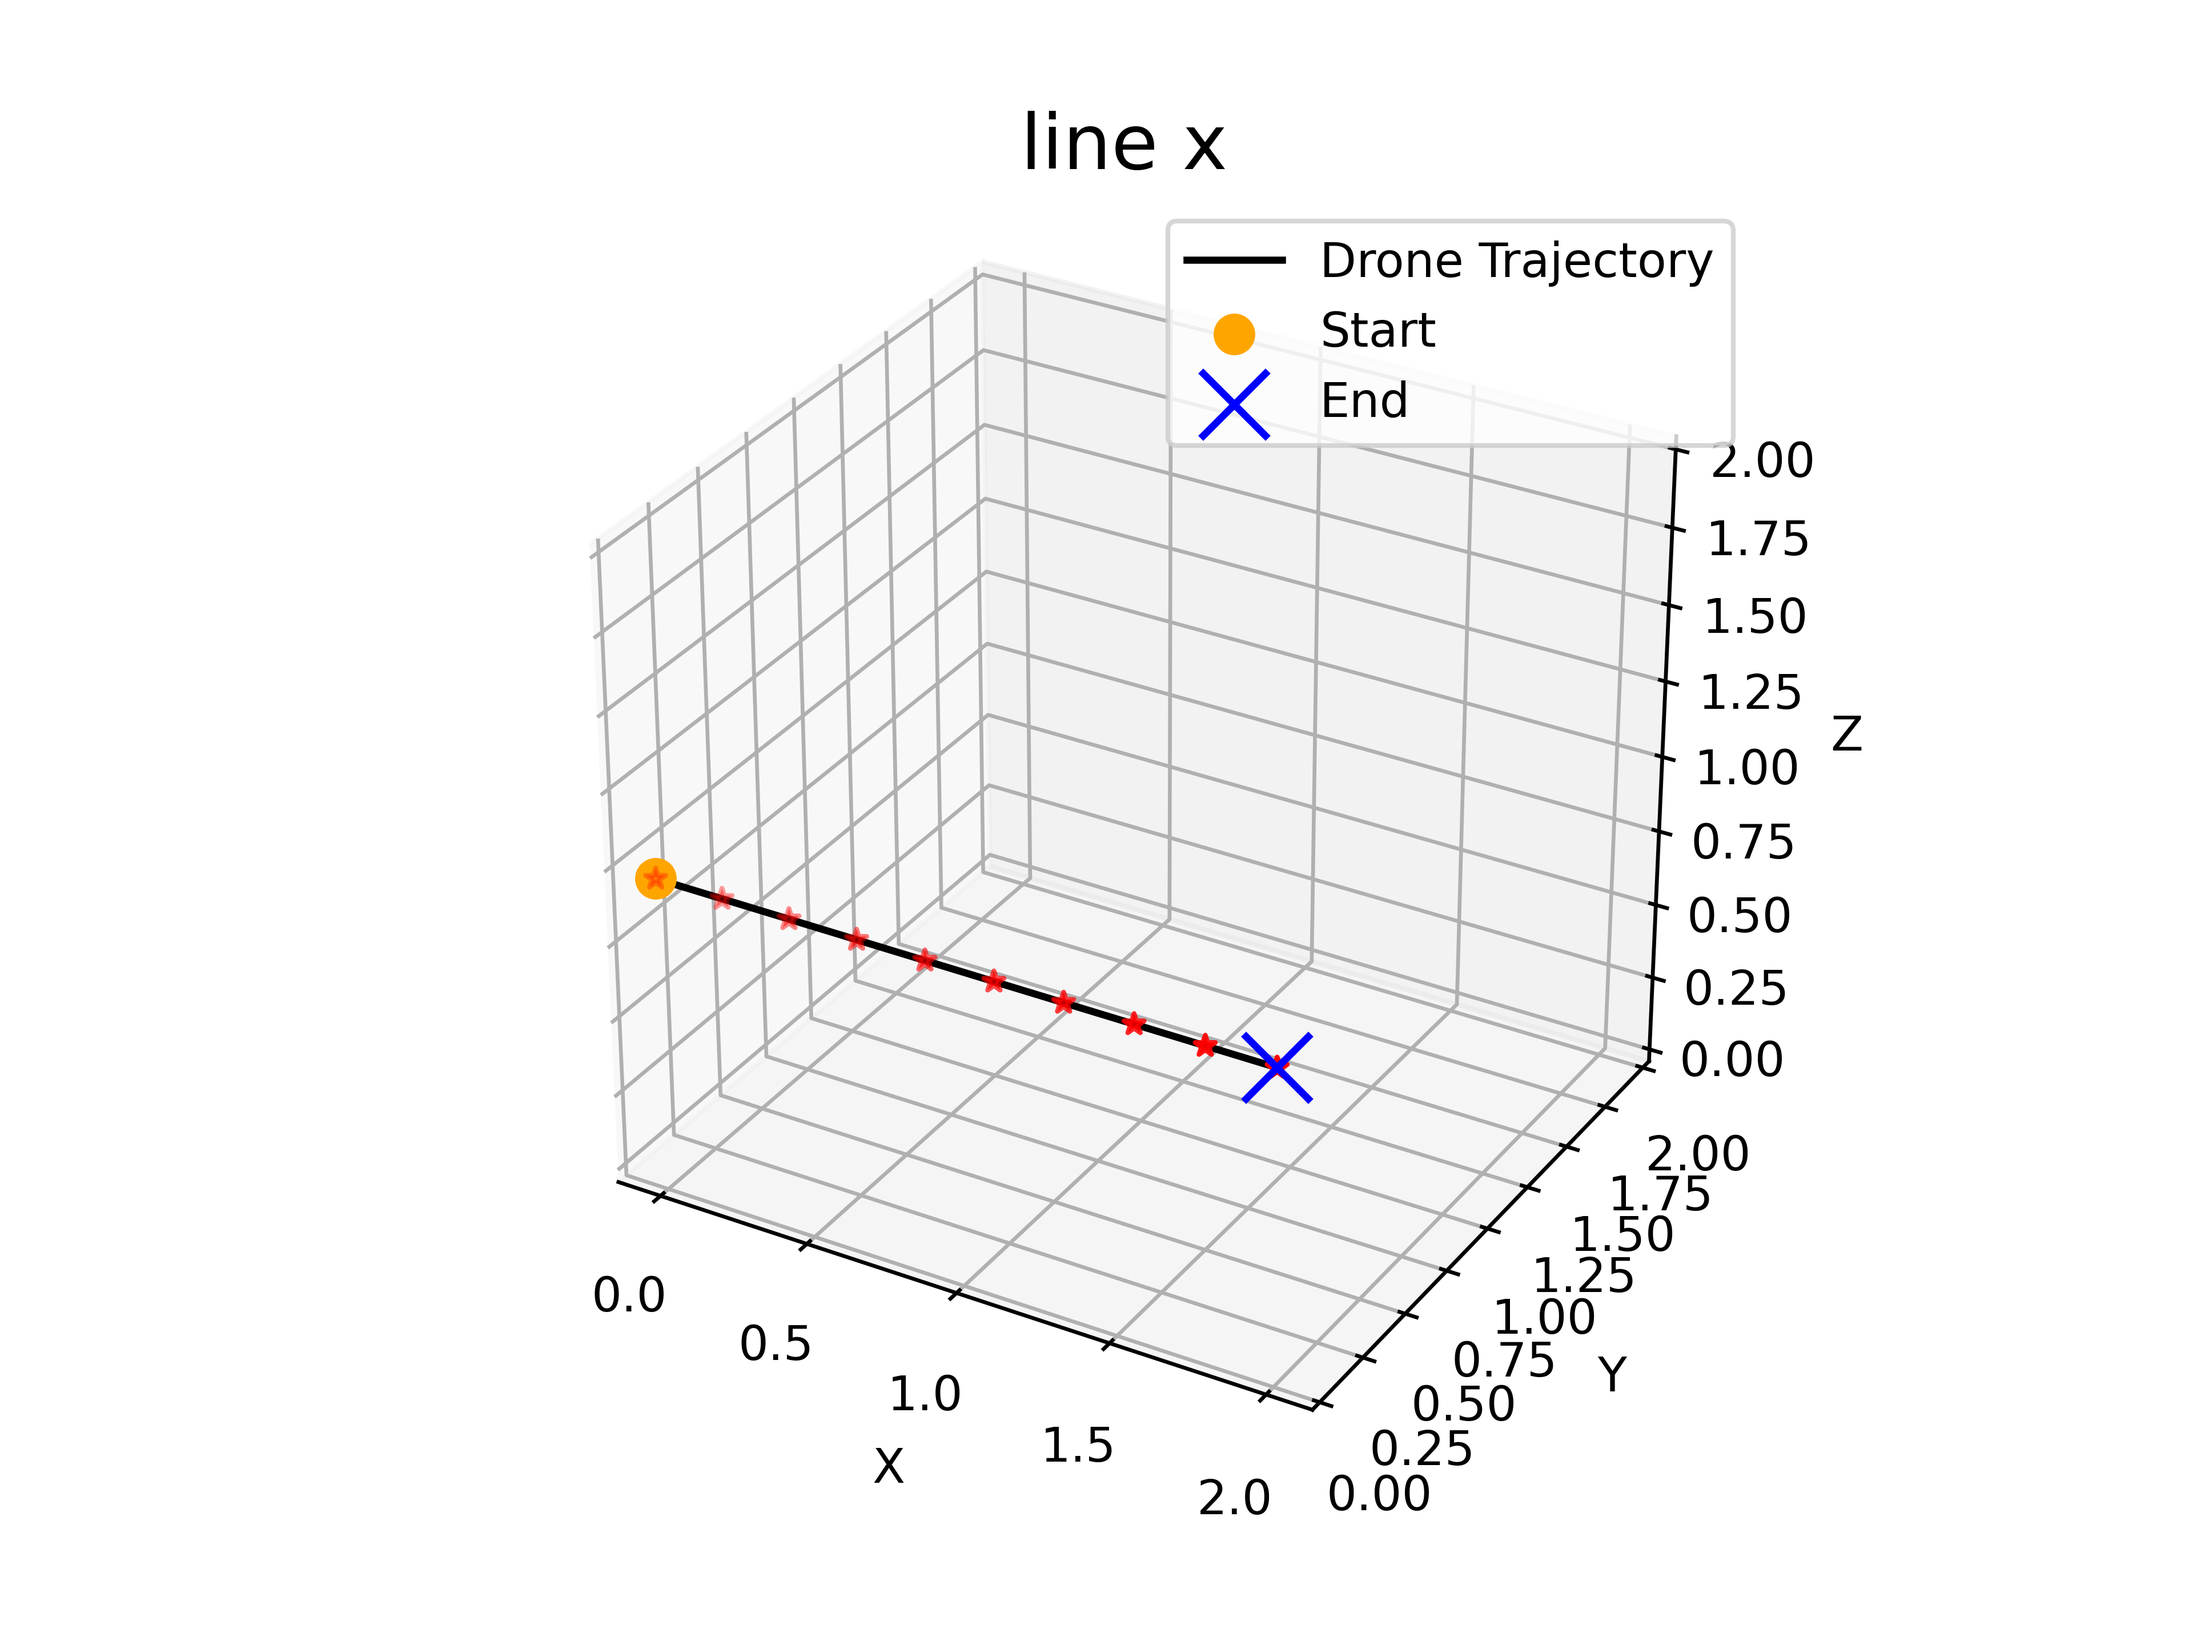
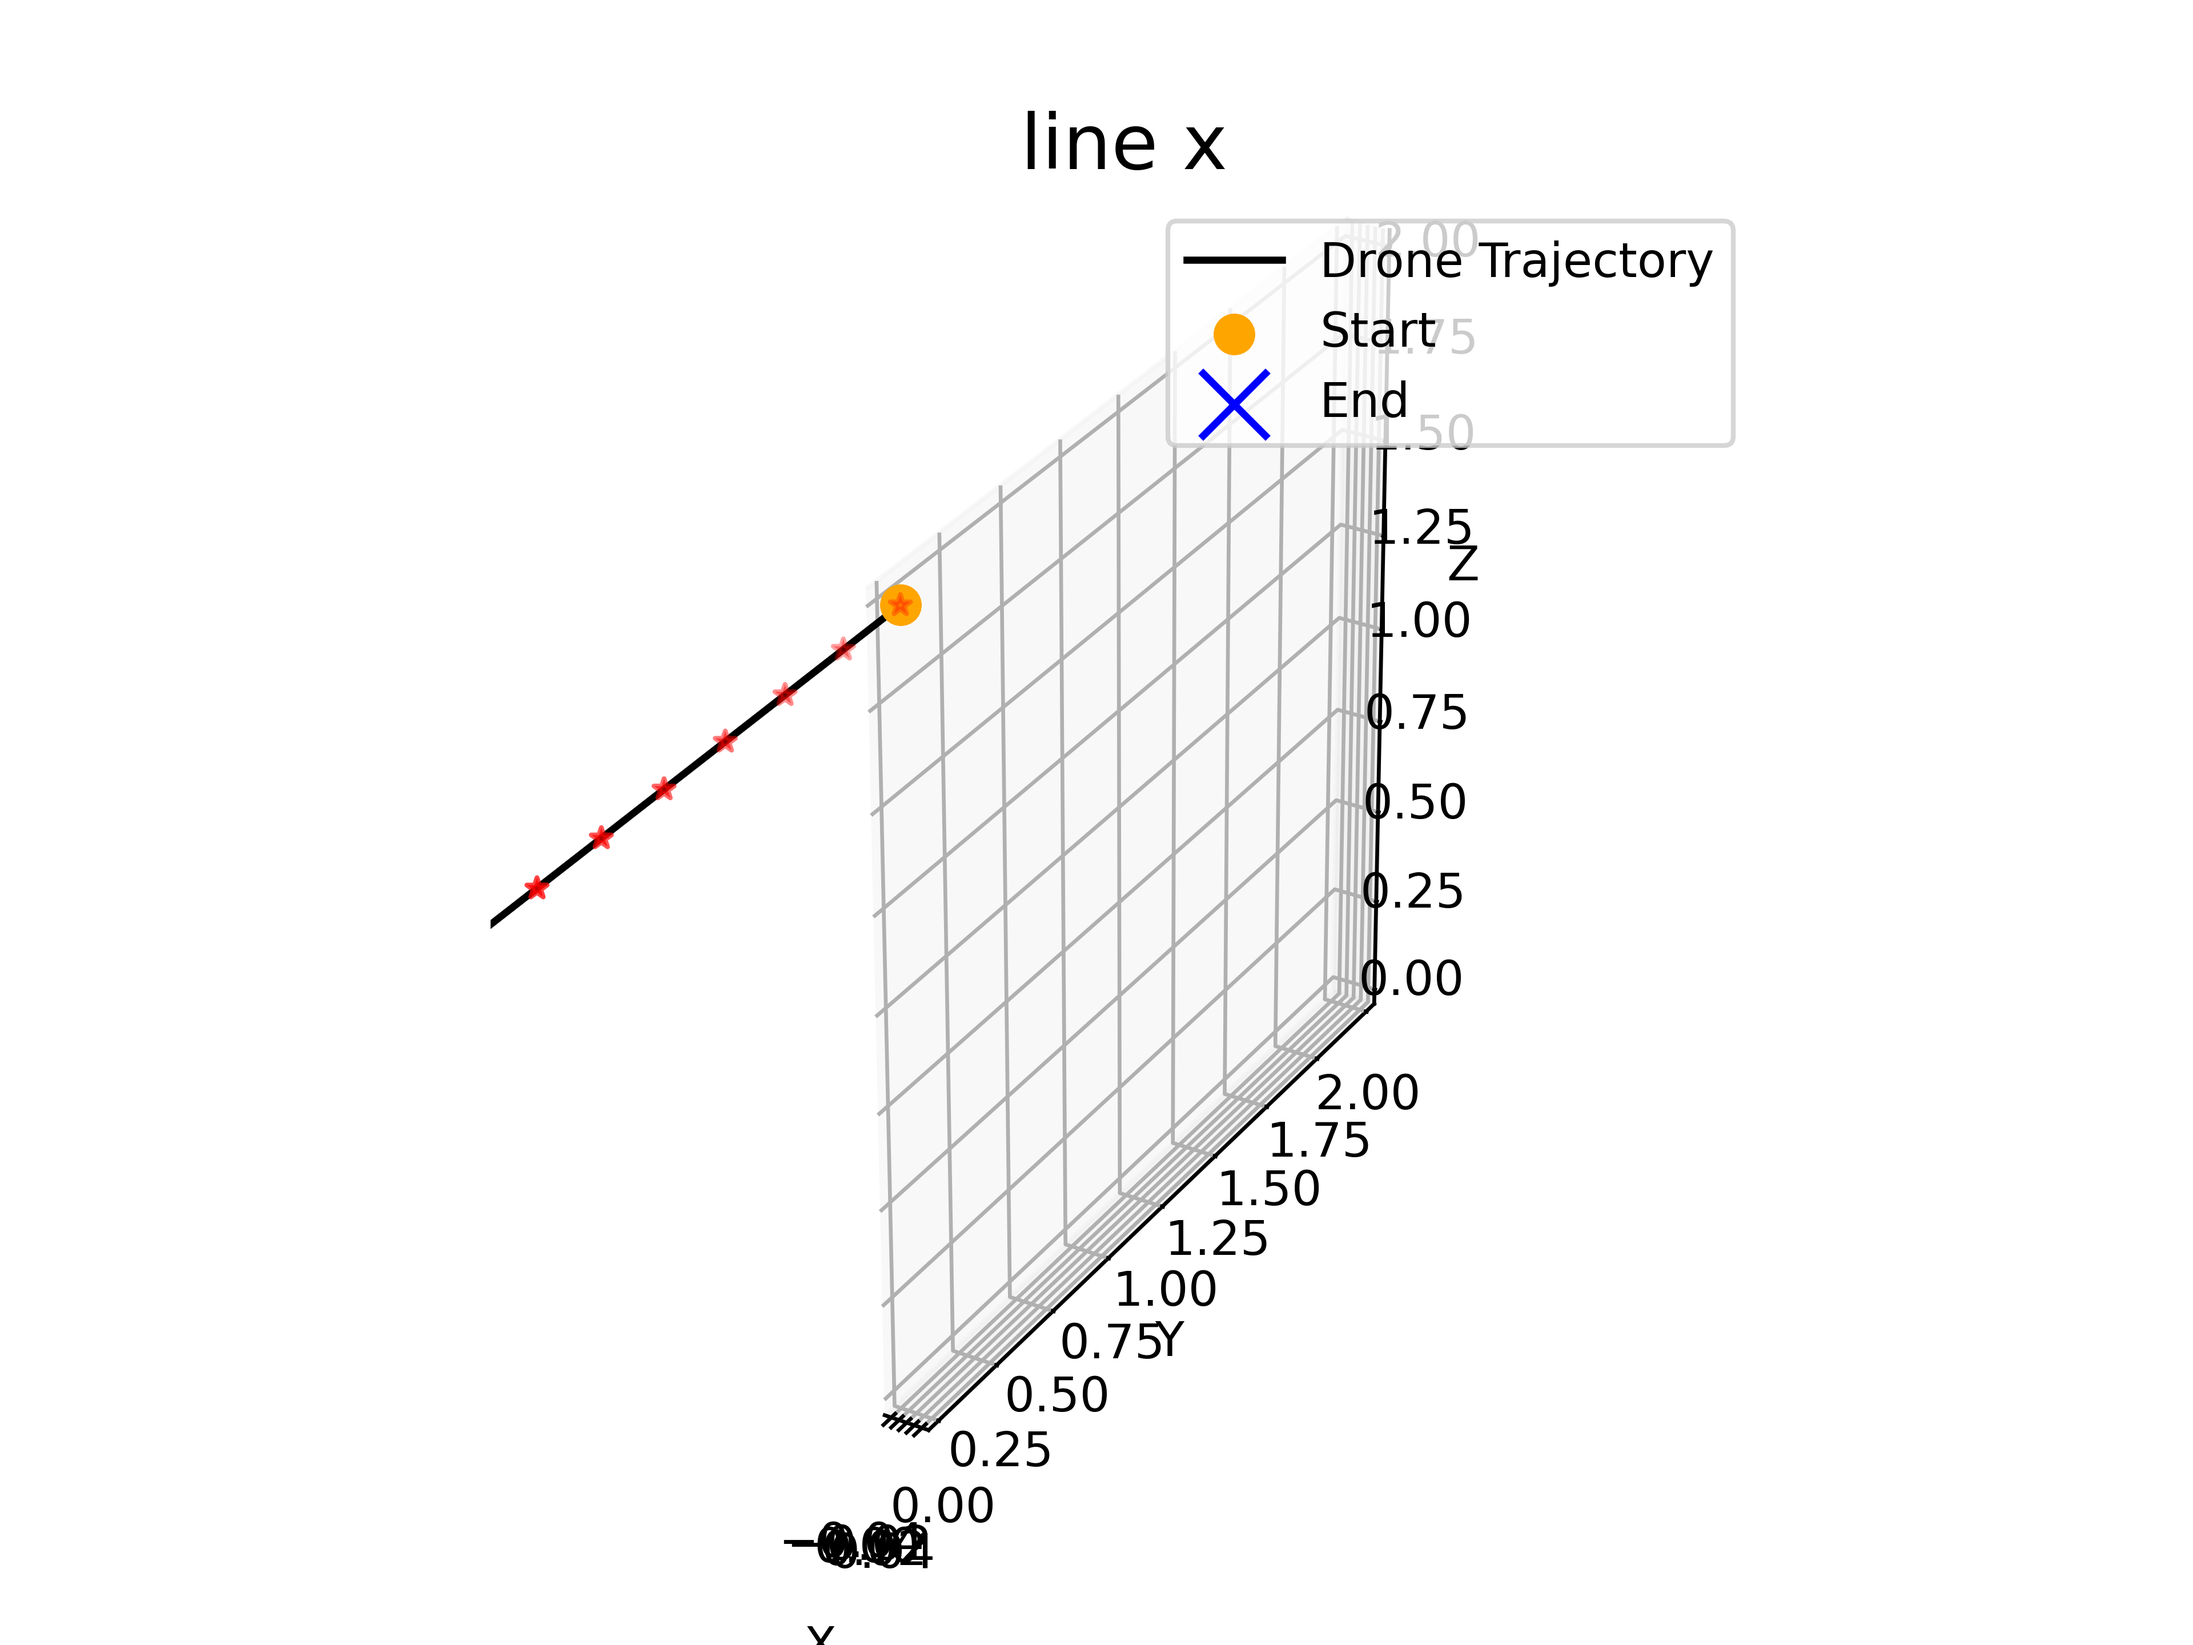
update

diff --git a/isaacgymenvs/tasks/trajectory/line_x.py b/isaacgymenvs/tasks/trajectory/line_x.py
@@ -5,8 +5,8 @@ import numpy as np
 
 def generate_line_x_points(num_points):
     t = np.linspace(0, 2, num_points)
-    x = t
-    y = np.zeros_like(t)
+    x = np.zeros_like(t)
+    y = t
     z = np.ones_like(t)
     
     return x, y, z
